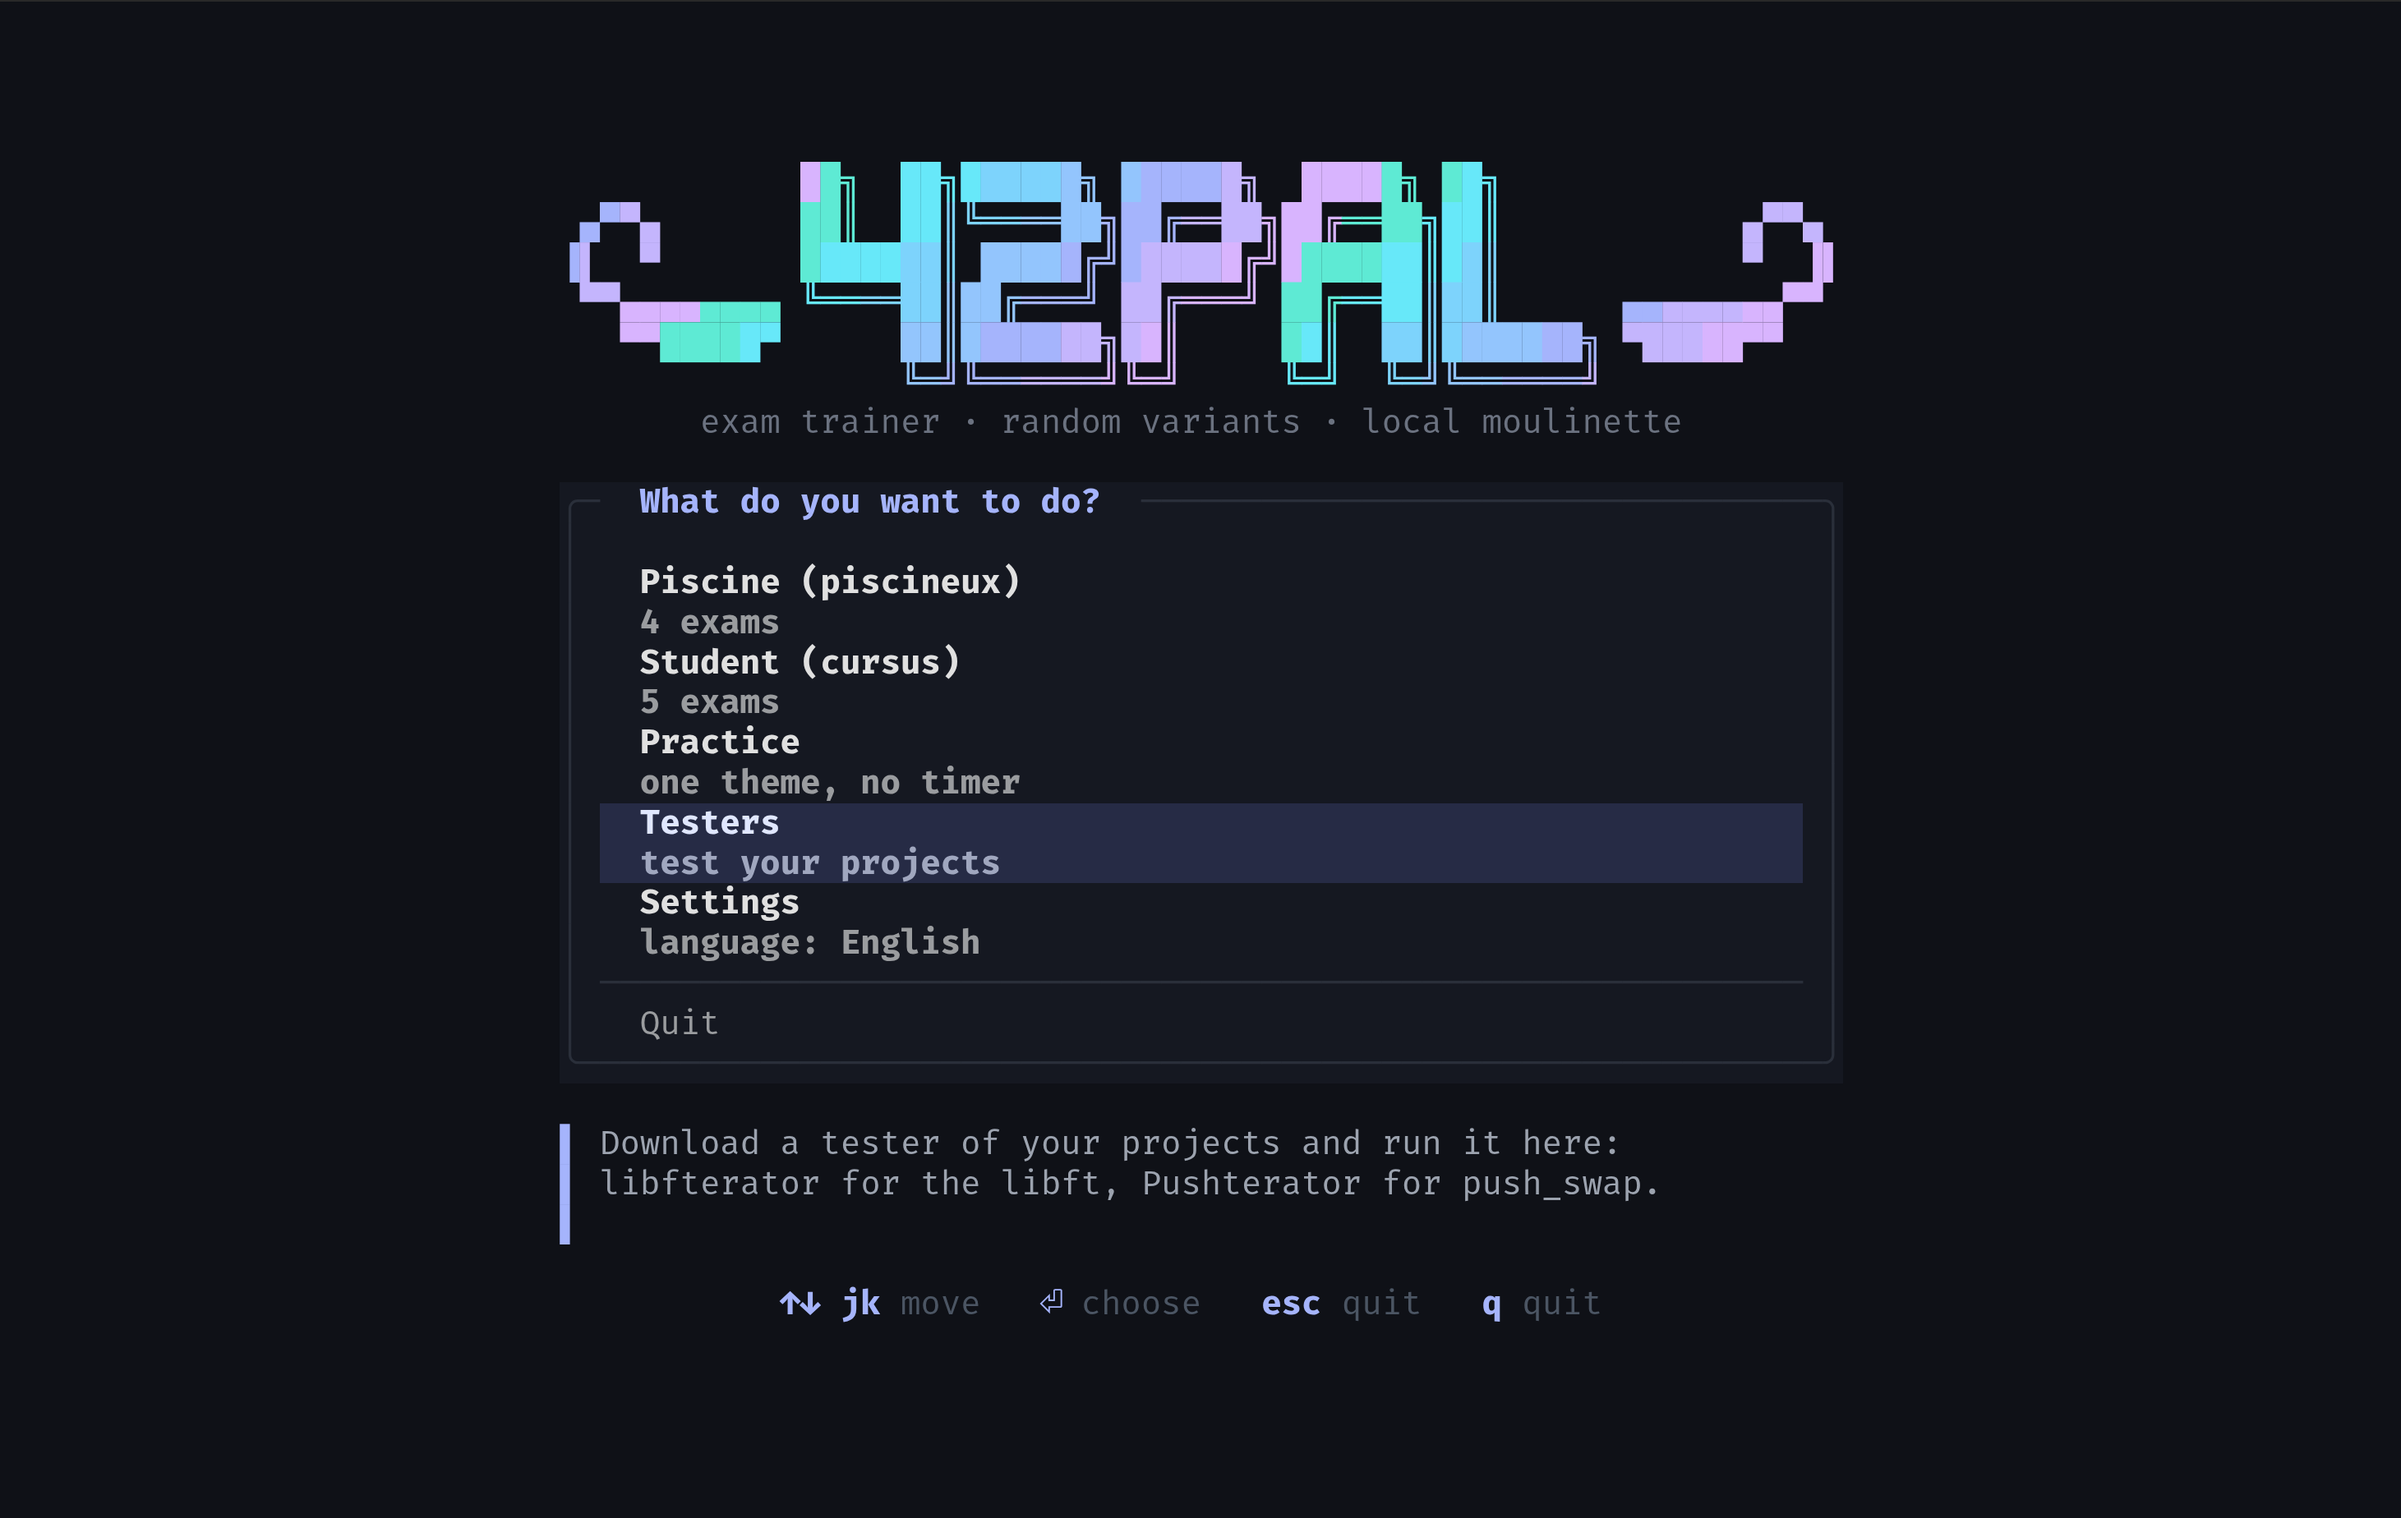
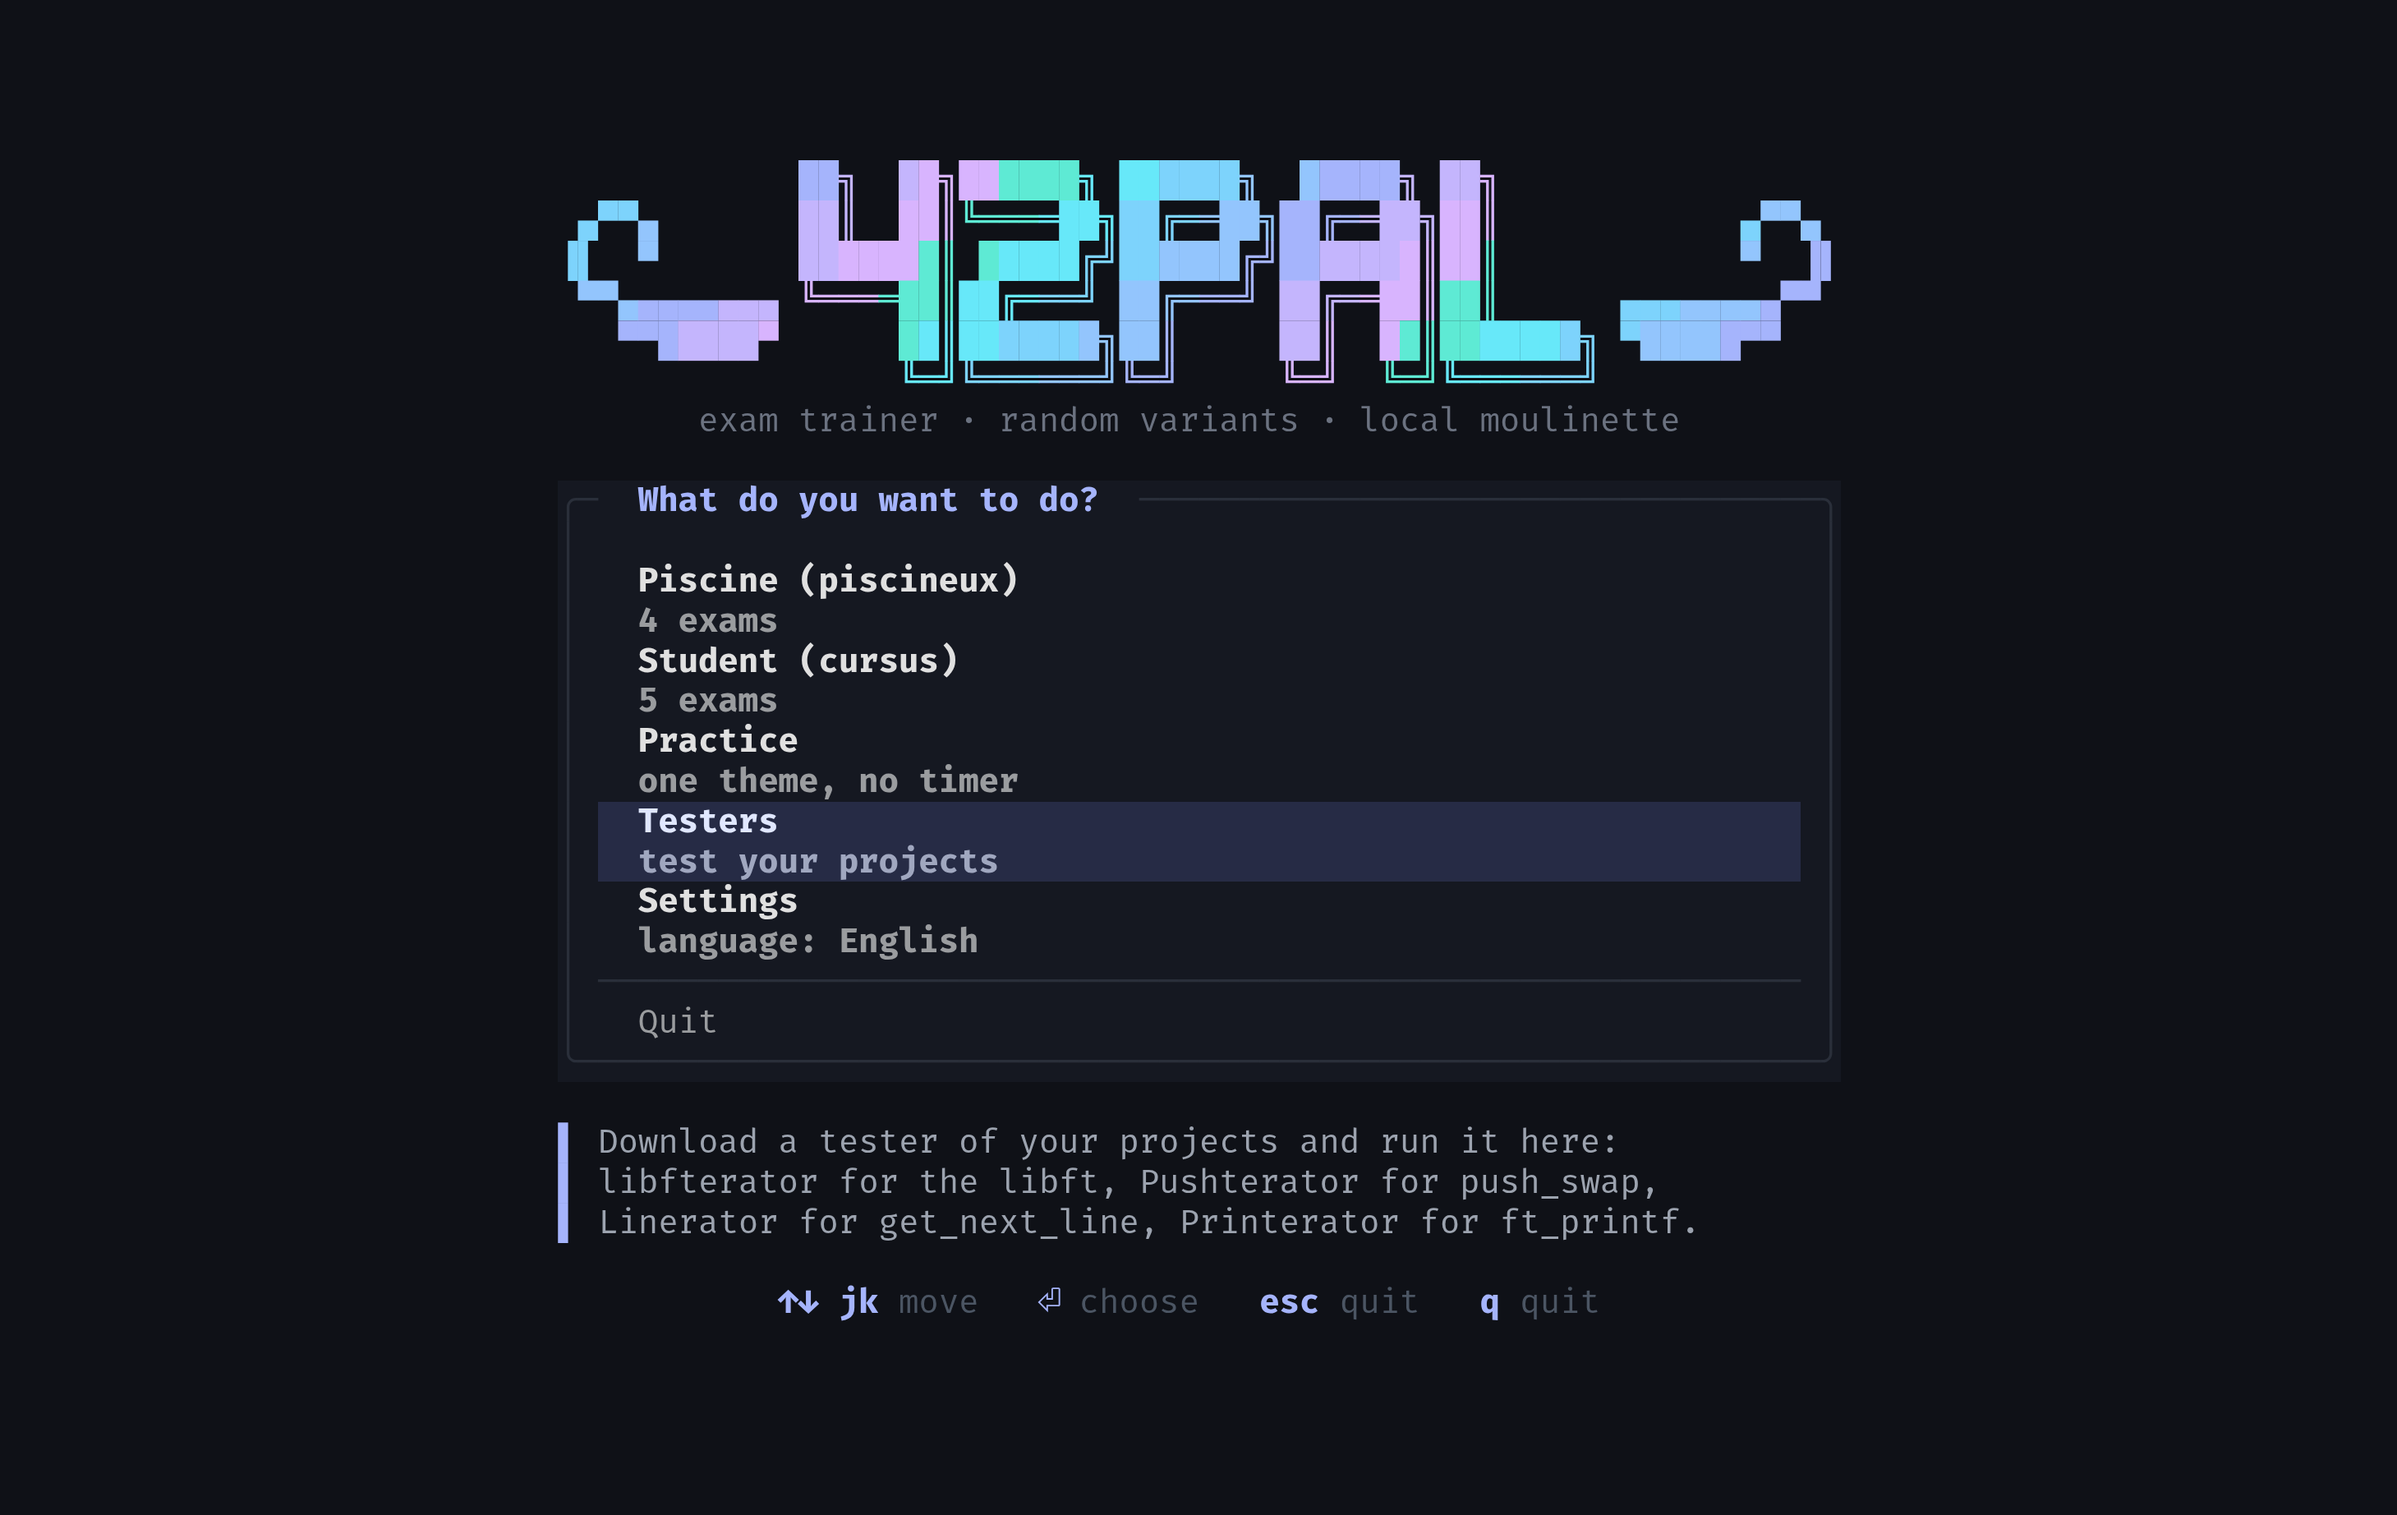
docs: new screenshots (the login, the first menu, an exam); Settings, report and the second models in the README
The login shows the disclaimer, the first menu names the four testers,
the exam is the full screen of today (the subject beside the log), all
three taken like the other screenshots. The README tells Settings (English
or French: the menus, the traces, the subjects in subject.fr.txt), the
report command, the translations for contributors, ★ for any project in
the Testers, and lists the 12 second models of Exam Rank 02, level 1.

diff --git a/README.md b/README.md
@@ -83,7 +83,8 @@ with a Ctrl+click, if it knows links.
    level. Its last choice goes back to the menu before (Quit in the first
    one).
 3. **Read the subject**: it is shown on the screen and written in
-   `~/42pal_exam/subjects/<name>/subject.en.txt`.
+   `~/42pal_exam/subjects/<name>/subject.en.txt` (and in `subject.fr.txt`
+   when 42pal speaks French, see [Settings](#settings-english-or-french)).
 4. **Write your code** in `~/42pal_exam/rendu/<name>/`.
 5. **Type `grademe`** at the `examshell>` prompt.
 
@@ -104,6 +105,7 @@ with a Ctrl+click, if it knows links.
 |---|---|---|
 | `grademe` | `g` | grades your work |
 | `status` | `s` | exam, level, subject, time spent and left, next grademe |
+| `report` | `r` | writes a report for an issue: the subject, your code, the last trace (see [Report a problem](#report-a-problem)) |
 | `finish` | `f` | ends the exam, with a summary |
 | `back` | `b` | back to the menus, after a wrong click in them (it asks first; Escape in full screen) |
 | `help` | `?` | lists the commands |
@@ -237,10 +239,10 @@ last first:
 
 - in full screen, the list below the path shows them as they are found;
   type a path and the list follows it, with the folders in it (★ for a
-  libft, `..` to go up). ↑↓ move, Enter opens a folder or tests a libft,
-  Tab completes;
+  project, `..` to go up). ↑↓ move, Enter opens a folder or tests a
+  project, Tab completes;
 - in `--plain`, a small shell: the folders found by their number, `ls`,
-  `cd`, `test` (or Enter in a libft), `help`, Tab completes.
+  `cd`, `test` (or Enter alone), `help`, Tab completes.
 
 The tester runs on a copy, never on your files. 42pal shows it at work,
 live: the checks of the subject as they are done, a bar of the tests and
@@ -261,6 +263,20 @@ libfterator, Linerator and Printerator need Linux (or WSL), `cc` and `git`
 Each one works on its own too, in its own clone: `./libfterator
 /path/to/libft`, `./pushterator /path/to/push_swap`, `./linerator
 /path/to/get_next_line`, `./printerator /path/to/ft_printf`.
+
+## Settings: English or French
+
+Choose **Settings** in the first menu: it lists the languages, each under
+its own name (English, Français). The choice applies at once and is kept in
+`~/.42pal/settings.json`; `PAL42_LANG=fr ./42pal` chooses it for one run.
+
+In French, 42pal translates its menus and its messages, the traces of a
+grademe (the titles, the verdicts, the crash messages; the commands and the
+outputs stay as they are) and the subjects: the screen shows the French one,
+written in `subject.fr.txt` next to `subject.en.txt`. Like the subjects of
+42, the header of a subject stays in English, and so do the names of the
+commands and the prompts `examshell>` and `practice>`. The testers give their
+report in the language of 42pal too.
 
 ## What the catalog has today
 
@@ -288,7 +304,9 @@ the test main builds the object and calls its methods one after the other.
 | Exercise | Kind | Theme | Variants |
 |---|---|---|---|
 | `shift_letters` | program | letter_rotation | 18 |
+| `shift_words` | function | letter_rotation | 3 |
 | `char_position` | function | string_length | 6 |
+| `len_kinds` | function | string_length | 4 |
 | `char_filter` | program | common_chars | 11 |
 | `split_fields` | function, leaks checked | string_split | 7 |
 | `print_range` | function (void, prints) | print_digits | 10 |
@@ -301,6 +319,7 @@ the test main builds the object and calls its methods one after the other.
 | `list_drop` | function + header handed in, leaks checked | list_remove | 12 |
 | `name_style` | program | case_convert | 18 |
 | `word_pick` | program | find_word | 10 |
+| `word_each` | program | find_word | 6 |
 | `base_print` | program | print_in_base | 8 |
 | `list_measure` | function, header given | list_walk | 10 |
 | `number_read` | function | read_base_number | 11 |
@@ -311,15 +330,24 @@ the test main builds the object and calls its methods one after the other.
 | `alpha_wave` | program | alternating_alphabet | 11 |
 | `alpha_back` | program | backward_alphabet | 7 |
 | `case_flip` | program | case_swap | 12 |
+| `case_zone` | function | case_swap | 4 |
 | `calc_form` | program | calculator | 11 |
 | `replace_pick` | program | char_replace | 8 |
+| `replace_count` | function | char_replace | 4 |
 | `letter_step` | program | letter_step | 7 |
+| `step_marks` | function | letter_step | 3 |
 | `rev_part` | program | reverse_print | 5 |
+| `back_print` | function (void, prints) | reverse_print | 3 |
 | `repeat_rule` | program | letter_repeat | 5 |
+| `repeat_alloc` | function, leaks checked | letter_repeat | 3 |
 | `pointer_pair` | function | value_swap | 5 |
+| `triple_swap` | function | value_swap | 4 |
 | `copy_shape` | function | string_copy | 8 |
+| `copy_part` | function | string_copy | 3 |
 | `put_filter` | function (void, prints) | string_print | 8 |
+| `put_shape` | function (void, prints) | string_print | 3 |
 | `bip_bop` | program | number_words | 8 |
+| `count_words` | program | number_words | 6 |
 | `mirror_group` | program | alphabet_mirror | 7 |
 | `word_from_end` | program | end_word | 8 |
 | `merge_chars` | program | merged_chars | 8 |
@@ -472,14 +500,22 @@ core changed. The same choice works on a machine:
 |---|---|
 | `pal42/` | the core: exercises, variants, subjects, grading, the testers of projects (no display) |
 | `pal42/cli/` | the terminal: examshell, practice, check-catalog, and the full screen (`tui.py`, `tui.tcss`) |
+| `pal42/locales/` | the translations of the texts of 42pal, one file a language (`fr.json`) |
 | `exercises/c/<name>/` | one exercise: `exercise.py`, its `ref.c` (and the header the student hands in, if any) |
 | `exercises/python/<name>/` | one Python exercise: `exercise.py` and its `ref.py`, which holds the function of every variant |
 | `exams/` | the exams: title, language, duration, compile command (the interpreter in Python), retry waits |
 | `tests/` | the tests |
 
+The texts of 42pal are written in English in the code and translated in
+`pal42/locales/<code>.json`; a subject is translated in
+`exercises/<language>/<name>/locales/<code>.json`. `python3 tools/locales.py
+check` says what each language lacks, and `python3 tools/locales.py new
+<code> "<Name>"` starts a new one.
+
 The plan of the project, in French, is in
 [docs/plans/42pal.md](docs/plans/42pal.md); the one of the testers in
-[docs/plans/testers.md](docs/plans/testers.md).
+[docs/plans/testers.md](docs/plans/testers.md), the one of the languages in
+[docs/plans/languages.md](docs/plans/languages.md).
 
 To try a tester before its tag is pushed, point 42pal at a local clone:
 `PAL42_TESTER_LIBFTERATOR=/path/to/libfterator ./42pal`. The tag and its
